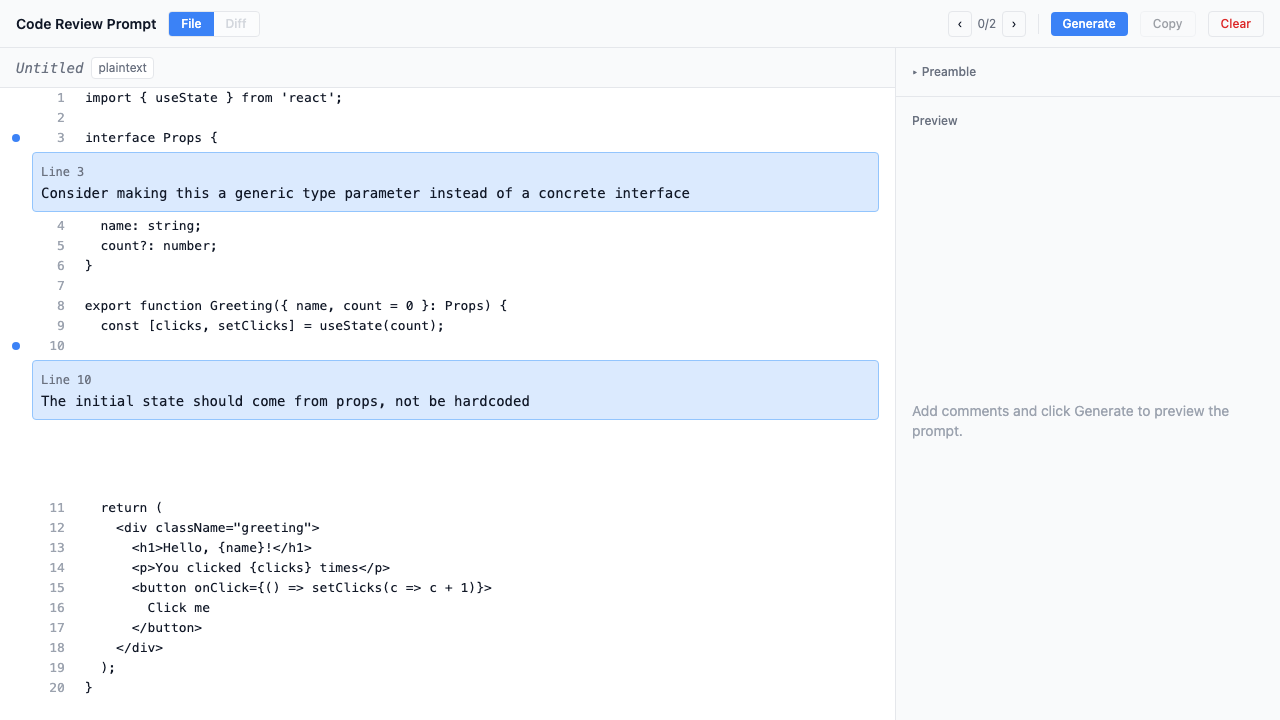
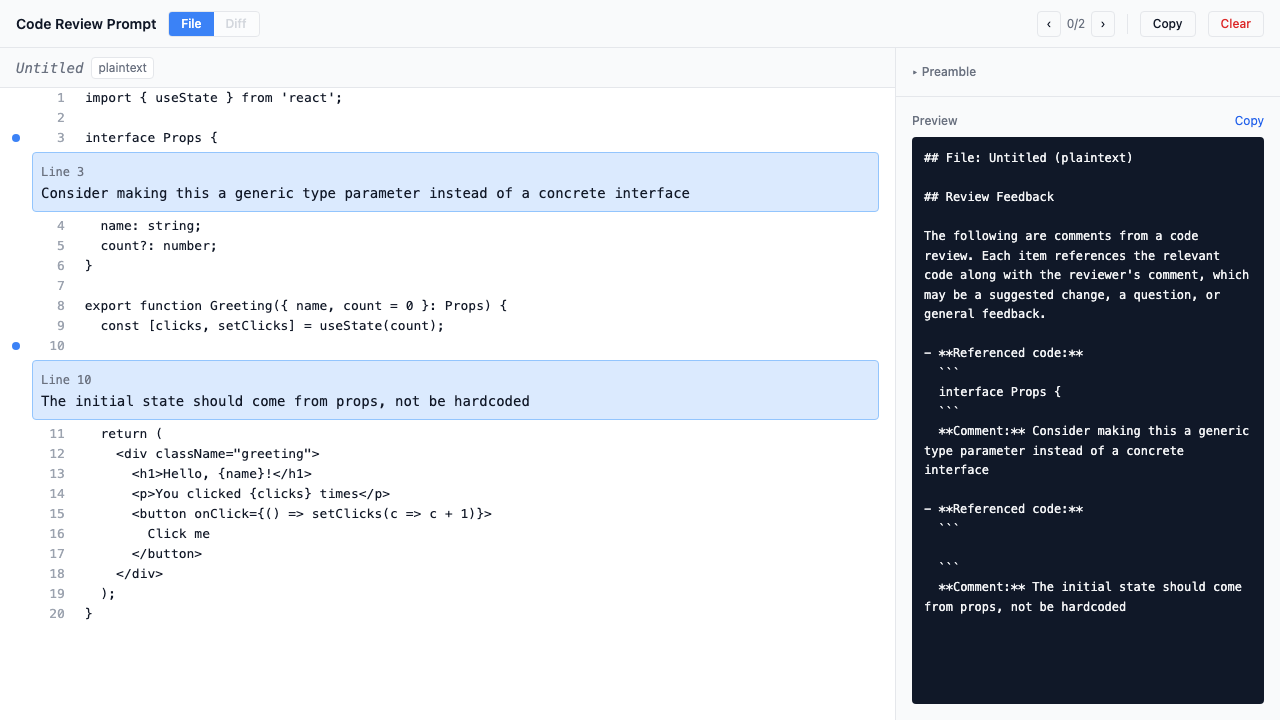
Fix demo screenshot tests and add pre-commit validation
Update capture-demos.ts to match current UI: scope comment
assertions to the code grid (avoiding prompt preview ambiguity)
and remove the deleted Generate button in favor of auto-generation.
Add validate-demos.sh to re-run screenshot tests on pre-commit
when app source or demo files change.

diff --git a/scripts/capture-demos.ts b/scripts/capture-demos.ts
@@ -85,13 +85,14 @@ export function Greeting({ name, count = 0 }: Props) {
     await page.getByRole('rowheader', { name: 'Line 3 gutter' }).click();
     await page.getByPlaceholder('Add your comment...').fill('Consider making this a generic type parameter instead of a concrete interface');
     await page.getByRole('button', { name: 'Add' }).click();
-    await expect(page.getByText('Consider making this')).toBeVisible();
+    // Wait for the comment to appear in the code viewer (not the prompt preview)
+    await expect(page.getByRole('grid').getByText('Consider making this')).toBeVisible();
 
     // Add a comment on line 10
     await page.getByRole('rowheader', { name: 'Line 10 gutter' }).click();
     await page.getByPlaceholder('Add your comment...').fill('The initial state should come from props, not be hardcoded');
     await page.getByRole('button', { name: 'Add' }).click();
-    await expect(page.getByText('The initial state')).toBeVisible();
+    await expect(page.getByRole('grid').getByText('The initial state')).toBeVisible();
 
     await page.screenshot({ path: path.join(DEMOS_DIR, '03-with-comments.png'), fullPage: false });
   });
@@ -112,13 +113,12 @@ export function multiply(a: number, b: number) {
     await expect(page.getByRole('grid', { name: 'Code viewer' })).toBeVisible();
     await page.waitForTimeout(500);
 
-    // Add a comment
+    // Add a comment — prompt auto-generates on change
     await page.getByRole('rowheader', { name: 'Line 1 gutter' }).click();
     await page.getByPlaceholder('Add your comment...').fill('Add input validation for NaN and Infinity');
     await page.getByRole('button', { name: 'Add' }).click();
 
-    // Generate prompt
-    await page.getByRole('button', { name: 'Generate' }).click();
+    // Wait for auto-generated prompt to appear in preview
     await expect(page.locator('pre')).toBeVisible();
 
     await page.screenshot({ path: path.join(DEMOS_DIR, '04-prompt-generated.png'), fullPage: false });